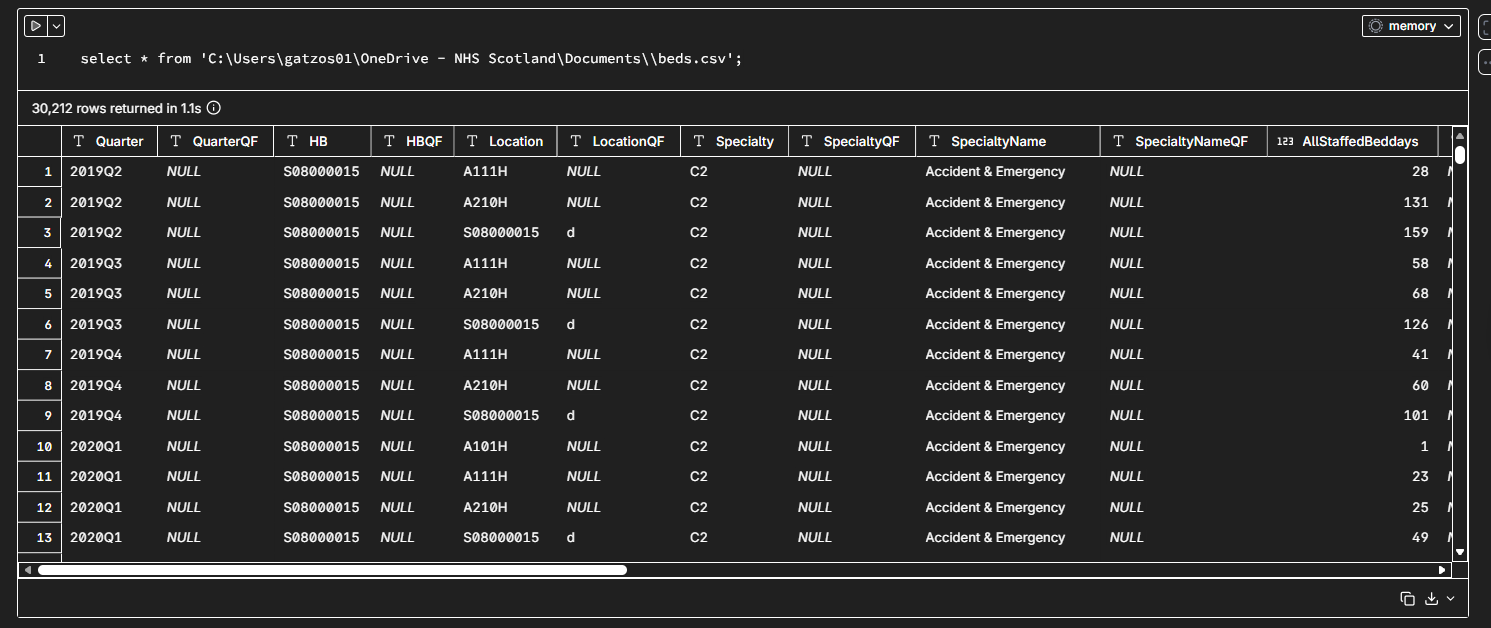
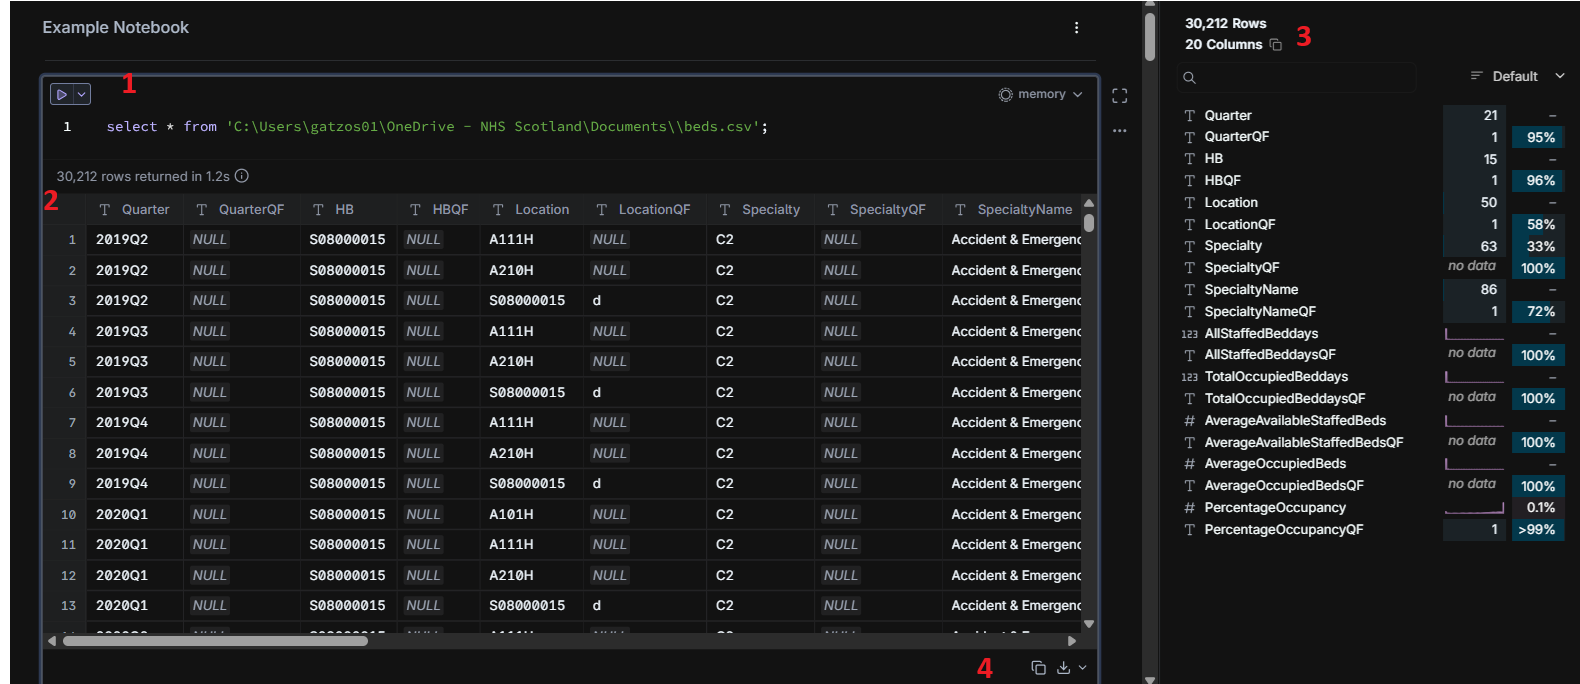
ui db files

diff --git a/ui/README.md b/ui/README.md
@@ -26,7 +26,7 @@ CALL start_ui();
 -   This command will open a new tab in your default web browser. You can start using DuckDB UI. You will see a blank Notebook.
 
 ## How to read a csv file
-You can run the following command in a cell:
+You can run the following command in a cell. You can press the play button on the left of the cell or press ctrl + enter to execute the cell. Make sure to change the path to your csv file:
 
 ```
 select * from 'C:\Users\<Your_user>\OneDrive - NHS Scotland\Documents\\beds.csv';
@@ -34,4 +34,27 @@ select * from 'C:\Users\<Your_user>\OneDrive - NHS Scotland\Documents\\beds.csv'
 
 ![alt text](img/image-2.png)
 
+The secion 1 shows us the cell content, the section 2 shows us the result of the query, the section 3 shows us some quick options like download and section 4 shows us some statistics about the query result.
+
 Since you are using DuckDB on Windows you need to use double backslashes (\\) in the path.
+
+## Read a duckdb file
+There are 2 ways to read a duckdb file in the UI. If you open a duckdb file in the UI other users won't be able to read the file.
+
+1. The quickest way is to run a terminal from the duckdb file folder. Open a terminal in the folder where your duckdb file is located and run the command `duckdb sample.duckdb`. You are linking your terminal to the duckdb file. Then you can run the command `CALL start_ui();` and you will be able to see all the tables in the duckdb file in the UI.
+
+![alt text](img/image-3.png)
+
+In this case if you create an empty cell you will see the word sameple (duckdb file name) on the right of the cell. If you see memory it means this cell is not linked to the duckdb file. You will also see a bar on the left hand side - Attached databases - with all the tables in the duckdb file.
+
+![alt text](./img/image-4.png)
+
+2. The second way occurs when you already opened the user interface with no duckdb file attached. You have to use the left hand bar - **ttached databases** secion - to link a duckdb file. You can click on the + icon and then type the duckdb file path (e.g. \\stats\posit_azure_logs\gatzos01\data\secundfile.duckdb). You can also type an alias for the duckdb file. Once you have linked the duckdb file you will be able to see all the tables in the duckdb file in the UI.
+
+![alt text](img/image-5.png)
+
+You can have more than one duckdb file linked to the UI. 
+
+![alt text](img/image-6.png)
+
+You can also detach files using the 3 dots on the right of the duckdb file name in the attached databases section.
